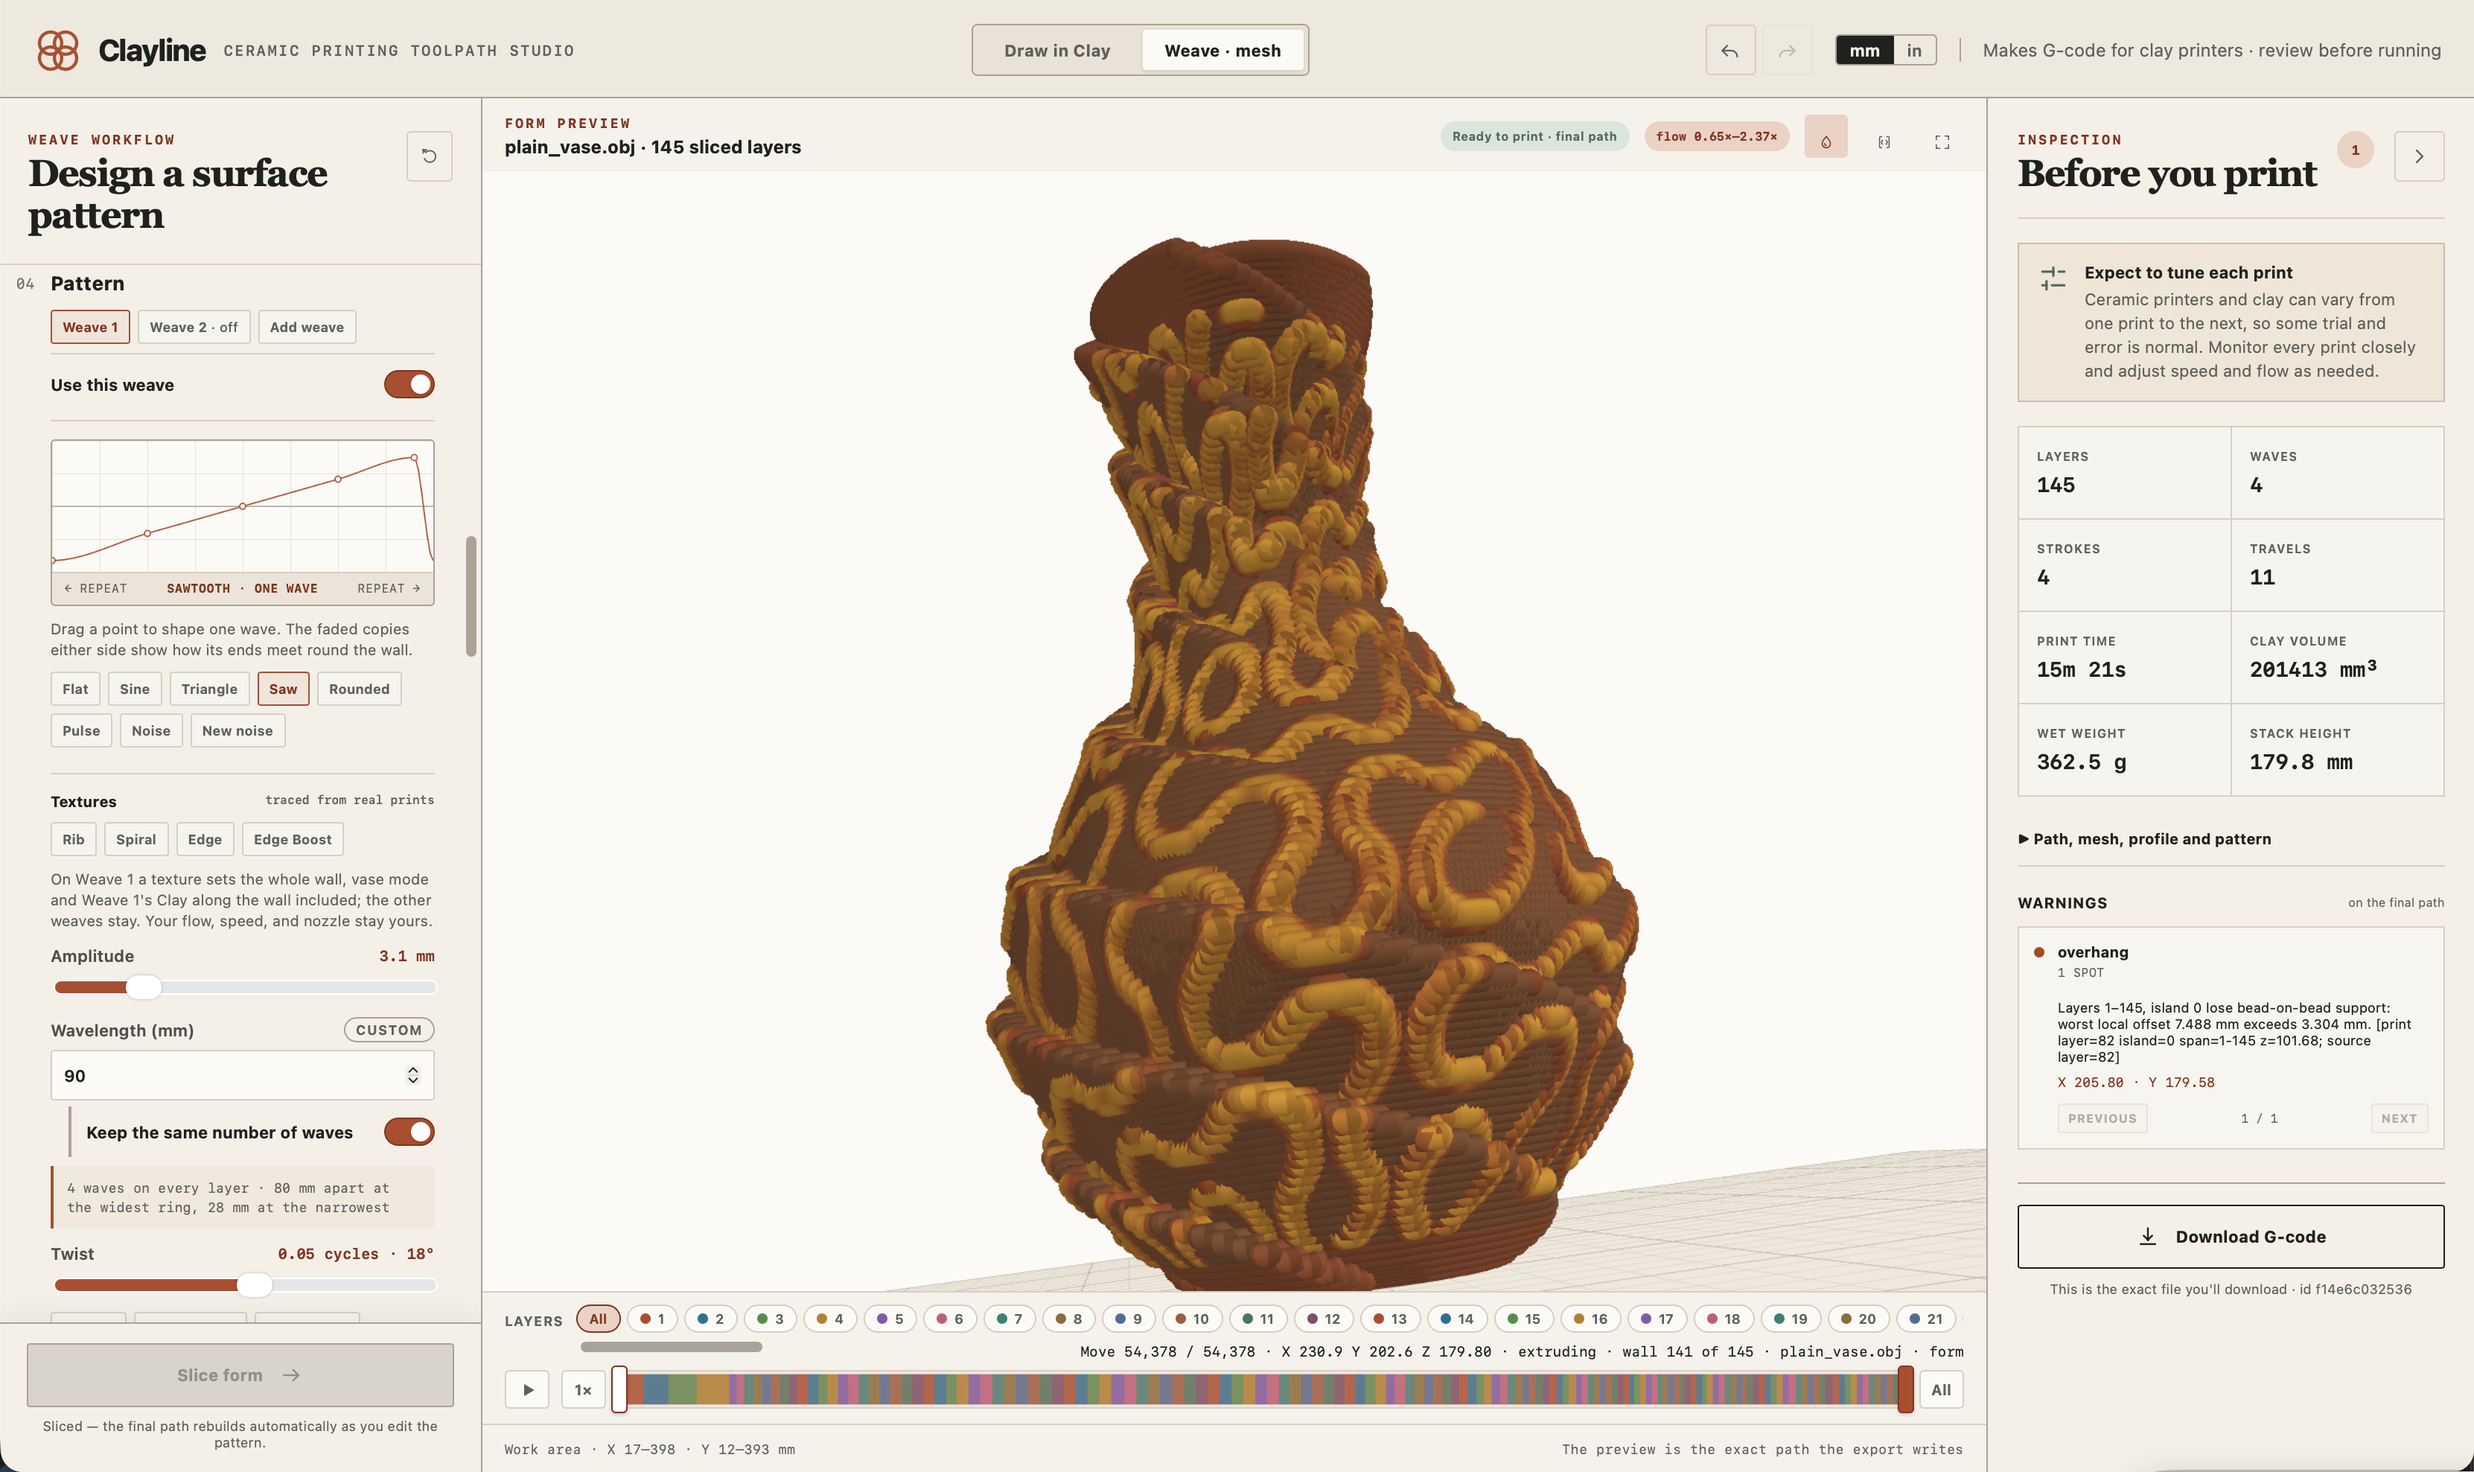
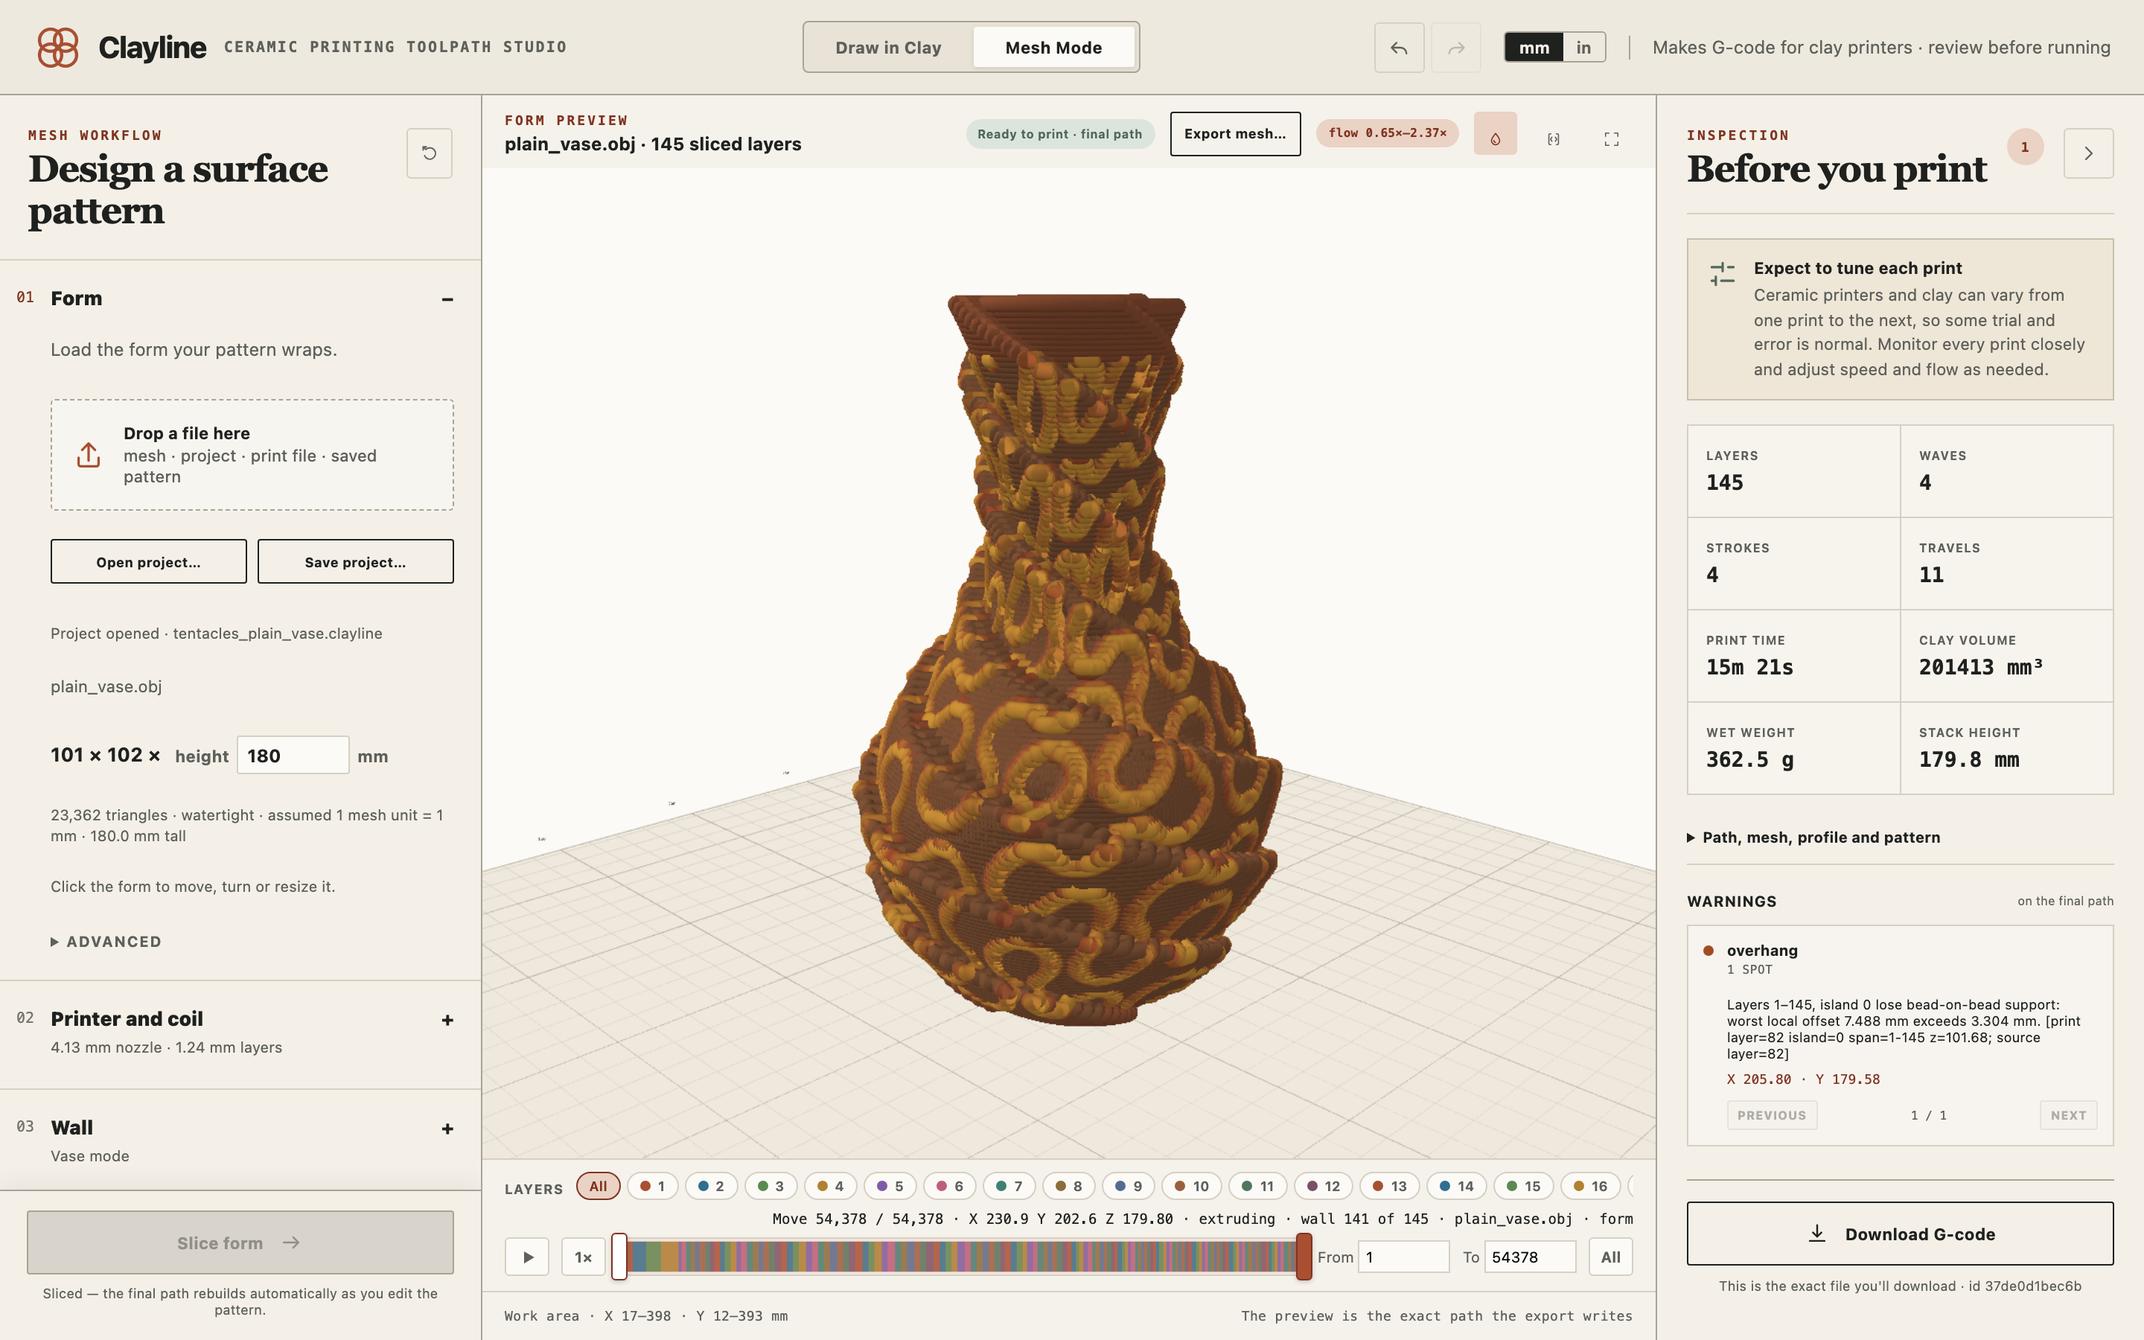
Use Mesh Mode throughout the website and current vase screenshot

diff --git a/guide/index.md b/guide/index.md
@@ -40,7 +40,9 @@ Draw directly on the bed, bring a line drawing from any vector app as an SVG, or
 
 ![Glazed vessels sliced from 3D models, with ribbed and spiral walls](images/prints/ribs-and-spirals.jpg)
 
-### Mesh Mode {#weave-mesh}
+<div id="weave-mesh" aria-hidden="true"></div>
+
+### Mesh Mode {#mesh-mode}
 
 Open a 3D model and shape its wall with up to three Weaves and three Images together. Draw a wave for ribs and spirals, wrap one of 80 relief tiles around the form, or place your own image as a single stamp. Adjust depth and clay flow independently, choose a hollow, solid or ribbed interior, and inspect the resulting nozzle path.
 
@@ -58,7 +60,7 @@ Both modes show the nozzle path in 2D and 3D, with a move-by-move scrubber and a
 | Build height from a drawing | Ordered, repeatable passes, filled areas, conventional layer heights or raised-nozzle drape settings. [Passes and layers](tiles.md#02-passes) |
 | Shape the surface of a vessel | Three independent Weaves: editable waveforms, ribs, spirals, Noise and textures traced from real prints. [Pattern controls](weave.md#04-pattern) |
 | Put a motif or an all-over relief on a form | Three Images with 80 catalogue depth maps, including 20 paisleys, plus grayscale and color uploads. Repeat around the wall or place a single stamp, then move, resize, rotate, flip or invert it. [Images](weave.md#05-images) |
-| Control the wall and its interior | Depth and clay flow, skips and fades for each effect; spiral Vase mode; hollow walls, solid fill or sparse ribs, with floors and roof skins where needed. [Mesh workflow](weave.md#the-workflow-top-to-bottom) |
+| Control the wall and its interior | Depth and clay flow, skips and fades for each effect; spiral Vase mode; hollow walls, solid fill or sparse ribs, with floors and roof skins where needed. [Mesh Mode workflow](weave.md#the-workflow-top-to-bottom) |
 | Keep working on a design later | Portable projects include the drawings or model, settings and uploaded artwork. Save a surface pattern separately to use it on another form, or export G-code and the sliced coils as an OBJ. [Saving your work](weave.md#saving-your-project) |
 
 ## Out of the kiln

diff --git a/guide/weave.md b/guide/weave.md
@@ -1,10 +1,12 @@
-# Mesh Mode {#weave-mesh}
+<div id="weave-mesh" aria-hidden="true"></div>
+
+# Mesh Mode {#mesh-mode}
 
 Shape a vessel from a 3D model, with wave patterns and image relief in its wall. Switch to **Mesh Mode** at the top of the window. Up to three Weaves and three Images work together on the same exterior; each keeps its own depth, clay flow and layer settings.
 
 ![Mesh Mode after slicing a vase with a sawtooth weave twisting up its wall: the form in the middle, Before you print on the right](images/tentacles-vase-sliced.png)
 
-## What Mesh mode does
+## What Mesh Mode does
 
 Clayline cuts the model into horizontal rings, one per layer, then builds a nozzle path along them. A Weave moves that path in and out of the original surface according to a wave you shape. Stack the wave's crests and you get vertical ribs. Offset them by half a wave each layer and the wall weaves. Turn them a little each layer and the pattern spirals up the pot. An Image uses the lightness of a depth map or picture to raise and recess the wall instead.
 

diff --git a/guide/troubleshooting.md b/guide/troubleshooting.md
@@ -40,7 +40,9 @@ It needs stacked passes. Add a second pass with **Repeat pass**.
 **Nothing changes in the preview when I edit.**
 The preview is showing **Sliced**, the checked path from the last slice. Slice again after an edit, or switch to **Draw** to see the editable drawing.
 
-## In Mesh Mode {#in-weave}
+<div id="in-weave" aria-hidden="true"></div>
+
+## In Mesh Mode {#in-mesh-mode}
 
 **The sliced rings look like a tangled contour map instead of stacked walls.**
 The model's up axis is wrong. Change **Up axis** under **Advanced** in 01 Form. Rhino exports are usually Y up.
